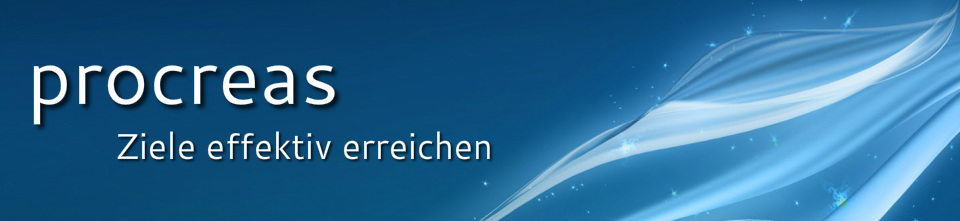
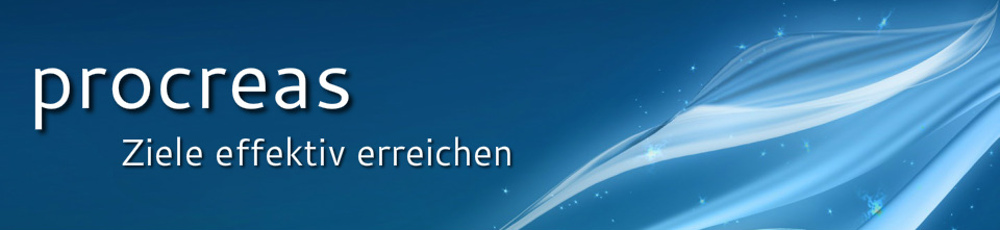
Header 1000
Prokreas->Prokreas
Preise aufgeräumt

diff --git a/preise.html b/preise.html
@@ -58,7 +58,7 @@ else document.observe('dom:loaded', initFlyouts);
 
     <div id="nav-wrap">
         <div class="container">
-        	<ul class='wsite-menu-default'><li><a href='index.html'>Home</a></li><li><a href='das-procreas-konzept.html'>Das Prokreas-Konzept</a></li><li ><a href='sitzungsablauf.html'>Sitzungsablauf</a></li>
+        	<ul class='wsite-menu-default'><li><a href='index.html'>Home</a></li><li><a href='das-procreas-konzept.html'>Das Procreas-Konzept</a></li><li ><a href='sitzungsablauf.html'>Sitzungsablauf</a></li>
 			<li id='pg1234'><a href='spezialisierungsgebiete.html'>Spezialisierungsgebiete</a><div class='wsite-menu-wrap' style='display:none'><ul class='wsite-menu'>
 				<li><a href='allergiefrei-leben.html' ><span class='wsite-menu-title'>Allergiefrei Leben</span></a></li>
 				<li><a href='aengste-beseitigen.html' ><span class='wsite-menu-title'>&Auml;ngste beseitigen</span></a></li>
@@ -93,7 +93,7 @@ else document.observe('dom:loaded', initFlyouts);
 
 <div class="paragraph" style="text-align:justify;">
     
-	<p><font size="4">Preise</font><br>
+	<p><h1>Preise</h1><br>
 	Alle Einzelsitzungen beinhalten ein kostenfreies Vorgespr&auml;ch sowie eine pers&ouml;nliche Betreuung auch nach der Sitzung.</p>
 	<table class="contenttable"> <tbody><tr><td class="tt"><a href="endgueltig-rauchfrei.html" title="Jetzt wieder Nichtraucher werden und mit dem Rauchen aufh&ouml;ren. Procreas hilft Ihnen dabei!" class="internal-link" >Endg&uuml;ltig rauchfrei werden</a></td><td> &nbsp; &nbsp; &nbsp; &nbsp; &nbsp; &nbsp; &nbsp; &nbsp; Dauer ca. 240 Minuten</td><td class="price"> &nbsp; &nbsp; &nbsp; &nbsp; &nbsp; &nbsp; &nbsp; &nbsp; &euro; 399,- </td></tr>
 	
@@ -108,10 +108,7 @@ else document.observe('dom:loaded', initFlyouts);
 	<tr><td class="tt" rowspan="1"><a href="sportliches-selbstvertrauen.html" title="Erlangen Sie Sportliches Selbstvertrauen" class="internal-link" >Erreichen Sie sportliche H&ouml;chstleistungen</a></td><td rowspan="1"> &nbsp; &nbsp; &nbsp; &nbsp; &nbsp; &nbsp; &nbsp; &nbsp; Dauer ca. 120 Minuten</td><td class="price" rowspan="1"> &nbsp; &nbsp; &nbsp; &nbsp; &nbsp; &nbsp; &nbsp; &nbsp; &euro; 219,- </td></tr>
 	
 	<tr><td class="tt">Folgesitzung</td><td><p> &nbsp; &nbsp; &nbsp; &nbsp; &nbsp; &nbsp; &nbsp; &nbsp; je&nbsp;30 Minuten</p></td><td class="price"> &nbsp; &nbsp; &nbsp; &nbsp; &nbsp; &nbsp; &nbsp; &nbsp; &nbsp;&nbsp;&euro; 55,-  </td></tr> </tbody></table>
-	
-	<p><span class="important">Unser Tipp: </span><br /><b>Sie m&ouml;chten gerne zusammen mit Ihrem Partner, Freunden, Arbeitskollegen eine Procreas-Sitzung wahrnehmen?&nbsp;Dann sollten Sie eine&nbsp;<a title="Buchen sie jetzt Ihre Private Gruppensitzung bei Procreas und sparen Sie dabei bares Geld.">Private Gruppensitzung</a>&nbsp;buchen. Dies ist bereits ab 2 Teilnehmer m&ouml;glich.&nbsp;Damit sind Sie zeitlich &nbsp;in der Termin- vereinbarung&nbsp;</b><b>flexibel&nbsp;</b><b>und sparen dar&uuml;ber hinaus noch bares Geld!</b>
-	<br>
-</p>
+	</p>
 <p><i>Alle genannten Preise sind inkl. 19% MwSt. Bitte beachten Sie, dass eine Verg&uuml;tung gegen&uuml;ber Dritter, z.B. Versicherungen, nicht m&öuml;glich ist. Die Zahlung der Geb&uuml;hr erfolgt im Vorfeld/Anschluss an die Hypnose oder Coaching Sitzungen direkt in bar oder per ec-Karte.</i>
 </p>
 <p>&nbsp;</p></div>

diff --git a/aengste-beseitigen.html b/aengste-beseitigen.html
@@ -58,7 +58,7 @@ else document.observe('dom:loaded', initFlyouts);
 
     <div id="nav-wrap">
         <div class="container">
-        	<ul class='wsite-menu-default'><li><a href='index.html'>Home</a></li><li><a href='das-procreas-konzept.html'>Das Prokreas-Konzept</a></li><li ><a href='sitzungsablauf.html'>Sitzungsablauf</a></li><li id='pg1234'><a href='spezialisierungsgebiete.html'>Spezialisierungsgebiete</a><div class='wsite-menu-wrap' style='display:none'><ul class='wsite-menu'><li><a href='allergiefrei-leben.html' ><span class='wsite-menu-title'>Allergiefrei Leben</span></a></li><li  class='wsite-nav-current'><a href='aelngste-beseitigen.html' ><span class='wsite-menu-title'>Ängste beseitigen</span></a></li><li><a href='endgueltig-rauchfrei.html' ><span class='wsite-menu-title'>Endgültig Rauchfrei</span></a></li><li><a href='gesund-abnehmen.html' ><span class='wsite-menu-title'>Gesund Abnehmen</span></a></li><li><a href='sportliches-selbstvertrauen.html' ><span class='wsite-menu-title'>Sportliches Selbstvertrauen</span></a></li><li><a href='ziele-erreichen.html' ><span class='wsite-menu-title'>Ziele erreichen</span></a></li></ul></div></li><li><a href='kontakt.html'>Kontakt</a></li><li><a href='preise.html'>Preise</a></li></ul>
+        	<ul class='wsite-menu-default'><li><a href='index.html'>Home</a></li><li><a href='das-procreas-konzept.html'>Das Procreas-Konzept</a></li><li ><a href='sitzungsablauf.html'>Sitzungsablauf</a></li><li id='pg1234'><a href='spezialisierungsgebiete.html'>Spezialisierungsgebiete</a><div class='wsite-menu-wrap' style='display:none'><ul class='wsite-menu'><li><a href='allergiefrei-leben.html' ><span class='wsite-menu-title'>Allergiefrei Leben</span></a></li><li  class='wsite-nav-current'><a href='aelngste-beseitigen.html' ><span class='wsite-menu-title'>Ängste beseitigen</span></a></li><li><a href='endgueltig-rauchfrei.html' ><span class='wsite-menu-title'>Endgültig Rauchfrei</span></a></li><li><a href='gesund-abnehmen.html' ><span class='wsite-menu-title'>Gesund Abnehmen</span></a></li><li><a href='sportliches-selbstvertrauen.html' ><span class='wsite-menu-title'>Sportliches Selbstvertrauen</span></a></li><li><a href='ziele-erreichen.html' ><span class='wsite-menu-title'>Ziele erreichen</span></a></li></ul></div></li><li><a href='kontakt.html'>Kontakt</a></li><li><a href='preise.html'>Preise</a></li></ul>
         </div><!-- end container -->
     </div><!-- end nav-wrap -->
 

diff --git a/files/main_style.css@1385597246.css b/files/main_style.css@1385597246.css
@@ -3,7 +3,7 @@
  a img { border: 0; }
  a { text-decoration: none; }
  body { font-family: Arial, Helvetica, sans-serif; font-size: 0px; background: url(theme/header-bg.jpg@559518) repeat center top; }
- .container { margin: 0 auto; width: 960px; }
+ .container { margin: 0 auto; width: 1000px; }
  #header-wrap, #banner-wrap, #nav-wrap, #main-wrap, #footer-wrap { width:100%; }
  h3 { font-size: 20px; padding: .5em 0 .2em 0; line-height: 1.2; font-family: 'Open Sans', sans-serif; font-weight: bold; color: #448eb8; letter-spacing:-1px; }
  a { color: #448eb8; }
@@ -73,11 +73,11 @@
  #banner-wrap {background:#fff; top:-10px; position:relative;}
  #banner { position:absolute; }
  .tall-header-page #banner-wrap { height: 342px; }
- .tall-header-page #banner { height: 342px; width: 960px; z-index: 0; -webkit-box-shadow: 0px 1px 3px 0px rgba(0, 0, 0, 0.25); box-shadow: 0px 1px 3px 0px rgba(0, 0, 0, 0.25); border-radius:0px 0px 3px 0px; overflow:hidden; }
- .tall-header-page .wsite-header { width: 960px; float: left; height: 342px; background: url(theme/banner-tall.jpg@559518) no-repeat; }
+ .tall-header-page #banner { height: 342px; width: 1000px; z-index: 0; -webkit-box-shadow: 0px 1px 3px 0px rgba(0, 0, 0, 0.25); box-shadow: 0px 1px 3px 0px rgba(0, 0, 0, 0.25); border-radius:0px 0px 3px 0px; overflow:hidden; }
+ .tall-header-page .wsite-header { width: 1000px; float: left; height: 342px; background: url(theme/banner-tall.jpg@559518) no-repeat; }
  .short-header-page #banner-wrap { height: 200px; }
- .short-header-page #banner { height: 200px; width: 960px; z-index: 0; -webkit-box-shadow: 0px 1px 3px 0px rgba(0, 0, 0, 0.25); box-shadow: 0px 1px 3px 0px rgba(0, 0, 0, 0.25); border-radius:0px 0px 3px 0px; overflow:hidden; }
- .short-header-page .wsite-header { width: 960px; float: left; height: 221px; background: url(theme/banner-short.jpg@559518) no-repeat; }
+ .short-header-page #banner { height: 200px; width: 1000px; z-index: 0; -webkit-box-shadow: 0px 1px 3px 0px rgba(0, 0, 0, 0.25); box-shadow: 0px 1px 3px 0px rgba(0, 0, 0, 0.25); border-radius:0px 0px 3px 0px; overflow:hidden; }
+ .short-header-page .wsite-header { width: 1000px; float: left; height: 221px; background: url(theme/banner-short.jpg@559518) no-repeat; }
  .no-header-page .wsite-header { display:none; }
  .landing-page #banner-wrap .container { height:350px; position:relative; }
  .landing-page #banner { background: none; padding: 0; position:relative; }

diff --git a/allergiefrei-leben.html b/allergiefrei-leben.html
@@ -58,7 +58,7 @@ else document.observe('dom:loaded', initFlyouts);
 
     <div id="nav-wrap">
         <div class="container">
-        	<ul class='wsite-menu-default'><li><a href='index.html'>Home</a></li><li><a href='das-procreas-konzept.html'>Das Prokreas-Konzept</a></li><li ><a href='sitzungsablauf.html'>Sitzungsablauf</a></li>
+        	<ul class='wsite-menu-default'><li><a href='index.html'>Home</a></li><li><a href='das-procreas-konzept.html'>Das Procreas-Konzept</a></li><li ><a href='sitzungsablauf.html'>Sitzungsablauf</a></li>
 			<li id='pg1234'><a href='spezialisierungsgebiete.html'>Spezialisierungsgebiete</a><div class='wsite-menu-wrap' style='display:none'><ul class='wsite-menu'>
 				<li class='wsite-nav-current'><a href='allergiefrei-leben.html' ><span class='wsite-menu-title'>Allergiefrei leben</span></a></li>
 				<li><a href='aengste-beseitigen.html' ><span class='wsite-menu-title'>Ängste beseitigen</span></a></li>

diff --git a/endgueltig-rauchfrei.html b/endgueltig-rauchfrei.html
@@ -58,7 +58,7 @@ else document.observe('dom:loaded', initFlyouts);
 
     <div id="nav-wrap">
         <div class="container">
-        	<ul class='wsite-menu-default'><li><a href='index.html'>Home</a></li><li><a href='das-procreas-konzept.html'>Das Prokreas-Konzept</a></li><li ><a href='sitzungsablauf.html'>Sitzungsablauf</a></li>
+        	<ul class='wsite-menu-default'><li><a href='index.html'>Home</a></li><li><a href='das-procreas-konzept.html'>Das Procreas-Konzept</a></li><li ><a href='sitzungsablauf.html'>Sitzungsablauf</a></li>
 			<li id='pg1234'><a href='spezialisierungsgebiete.html'>Spezialisierungsgebiete</a><div class='wsite-menu-wrap' style='display:none'><ul class='wsite-menu'>
 				<li><a href='allergiefrei-leben.html' ><span class='wsite-menu-title'>Allergiefrei leben</span></a></li>
 				<li><a href='aengste-beseitigen.html' ><span class='wsite-menu-title'>Ängste beseitigen</span></a></li>

diff --git a/gesund-abnehmen.html b/gesund-abnehmen.html
@@ -58,7 +58,7 @@ else document.observe('dom:loaded', initFlyouts);
 
     <div id="nav-wrap">
         <div class="container">
-        	<ul class='wsite-menu-default'><li><a href='index.html'>Home</a></li><li><a href='das-procreas-konzept.html'>Das Prokreas-Konzept</a></li><li ><a href='sitzungsablauf.html'>Sitzungsablauf</a></li>
+        	<ul class='wsite-menu-default'><li><a href='index.html'>Home</a></li><li><a href='das-procreas-konzept.html'>Das Procreas-Konzept</a></li><li ><a href='sitzungsablauf.html'>Sitzungsablauf</a></li>
 			<li id='pg1234'><a href='spezialisierungsgebiete.html'>Spezialisierungsgebiete</a><div class='wsite-menu-wrap' style='display:none'><ul class='wsite-menu'>
 				<li><a href='allergiefrei-leben.html' ><span class='wsite-menu-title'>Allergiefrei leben</span></a></li>
 				<li><a href='aengste-beseitigen.html' ><span class='wsite-menu-title'>Ängste beseitigen</span></a></li>

diff --git a/kontakt.html b/kontakt.html
@@ -58,7 +58,7 @@ else document.observe('dom:loaded', initFlyouts);
 
     <div id="nav-wrap">
         <div class="container">
-        	<ul class='wsite-menu-default'><li><a href='index.html'>Home</a></li><li><a href='das-procreas-konzept.html'>Das Prokreas-Konzept</a></li><li ><a href='sitzungsablauf.html'>Sitzungsablauf</a></li>
+        	<ul class='wsite-menu-default'><li><a href='index.html'>Home</a></li><li><a href='das-procreas-konzept.html'>Das Procreas-Konzept</a></li><li ><a href='sitzungsablauf.html'>Sitzungsablauf</a></li>
 			<li id='pg1234'><a href='spezialisierungsgebiete.html'>Spezialisierungsgebiete</a><div class='wsite-menu-wrap' style='display:none'><ul class='wsite-menu'>
 				<li><a href='allergiefrei-leben.html' ><span class='wsite-menu-title'>Allergiefrei Leben</span></a></li>
 				<li><a href='aengste-beseitigen.html' ><span class='wsite-menu-title'>Ängste beseitigen</span></a></li>

diff --git a/landingpage/hypnose-zum-abnehmen.html b/landingpage/hypnose-zum-abnehmen.html
@@ -59,7 +59,7 @@ else document.observe('dom:loaded', initFlyouts);
 
     <div id="nav-wrap">
         <div class="container">
-        	<ul class='wsite-menu-default'><li><a href='index.html'>Home</a></li><li><a href='das-procreas-konzept.html'>Das Prokreas-Konzept</a></li><li ><a href='sitzungsablauf.html'>Sitzungsablauf</a></li>
+        	<ul class='wsite-menu-default'><li><a href='index.html'>Home</a></li><li><a href='das-procreas-konzept.html'>Das Procreas-Konzept</a></li><li ><a href='sitzungsablauf.html'>Sitzungsablauf</a></li>
 			<li id='pg1234'><a href='spezialisierungsgebiete.html'>Spezialisierungsgebiete</a><div class='wsite-menu-wrap' style='display:none'><ul class='wsite-menu'>
 				<li><a href='allergiefrei-leben.html' ><span class='wsite-menu-title'>Allergiefrei leben</span></a></li>
 				<li><a href='aengste-beseitigen.html' ><span class='wsite-menu-title'>Ängste beseitigen</span></a></li>

diff --git a/sportliches-selbstvertrauen.html b/sportliches-selbstvertrauen.html
@@ -58,7 +58,7 @@ else document.observe('dom:loaded', initFlyouts);
 
     <div id="nav-wrap">
         <div class="container">
-        	<ul class='wsite-menu-default'><li><a href='index.html'>Home</a></li><li><a href='das-procreas-konzept.html'>Das Prokreas-Konzept</a></li><li ><a href='sitzungsablauf.html'>Sitzungsablauf</a></li>
+        	<ul class='wsite-menu-default'><li><a href='index.html'>Home</a></li><li><a href='das-procreas-konzept.html'>Das Procreas-Konzept</a></li><li ><a href='sitzungsablauf.html'>Sitzungsablauf</a></li>
 			<li id='pg1234'><a href='spezialisierungsgebiete.html'>Spezialisierungsgebiete</a><div class='wsite-menu-wrap' style='display:none'><ul class='wsite-menu'>
 				<li><a href='allergiefrei-leben.html' ><span class='wsite-menu-title'>Allergiefrei leben</span></a></li>
 				<li><a href='aengste-beseitigen.html' ><span class='wsite-menu-title'>Ängste beseitigen</span></a></li>

diff --git a/ziele-erreichen.html b/ziele-erreichen.html
@@ -58,7 +58,7 @@ else document.observe('dom:loaded', initFlyouts);
 
     <div id="nav-wrap">
         <div class="container">
-        	<ul class='wsite-menu-default'><li><a href='index.html'>Home</a></li><li><a href='das-procreas-konzept.html'>Das Prokreas-Konzept</a></li><li ><a href='sitzungsablauf.html'>Sitzungsablauf</a></li>
+        	<ul class='wsite-menu-default'><li><a href='index.html'>Home</a></li><li><a href='das-procreas-konzept.html'>Das Procreas-Konzept</a></li><li ><a href='sitzungsablauf.html'>Sitzungsablauf</a></li>
 			<li id='pg1234'><a href='spezialisierungsgebiete.html'>Spezialisierungsgebiete</a><div class='wsite-menu-wrap' style='display:none'><ul class='wsite-menu'>
 				<li><a href='allergiefrei-leben.html' ><span class='wsite-menu-title'>Allergiefrei Leben</span></a></li>
 				<li><a href='aengste-beseitigen.html' ><span class='wsite-menu-title'>Ängste beseitigen</span></a></li>
